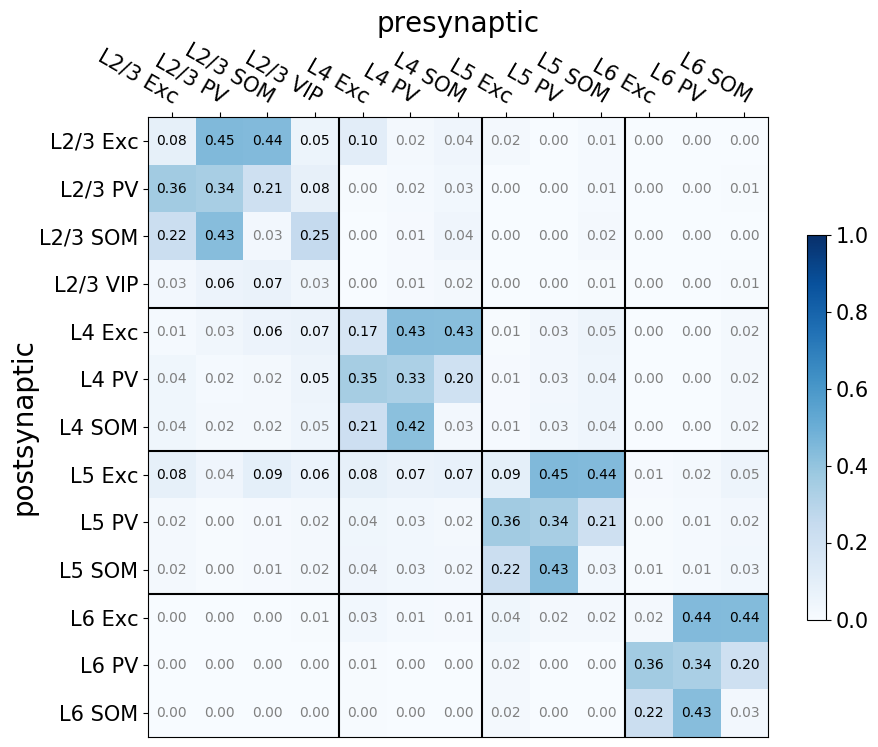
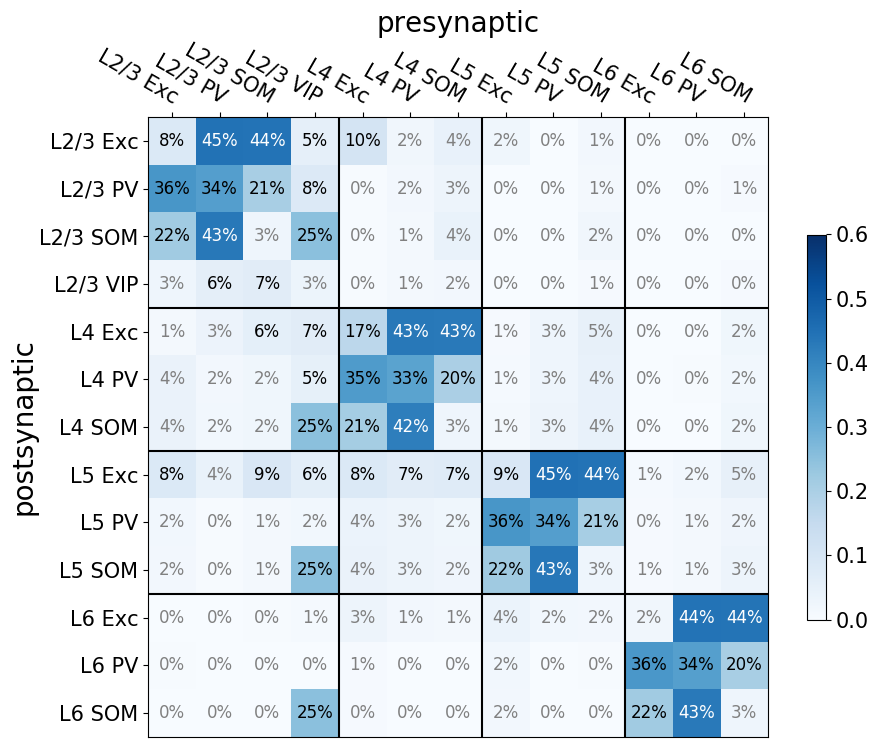
improve paradox functions, debug colormap

diff --git a/microcircuit/network.py b/microcircuit/network.py
@@ -231,24 +231,51 @@ class Network:
                     )
                 self.dc.append(dc)
 
-    def create_ac_generator(self):
-        if self.stim_dict['ac_input']['offset'] > 0.:
-            self.ac = []
-            for t in self.stim_dict['ac_input']['ts']:
-                ac = nest.Create(
-                    'ac_generator',
-                    params={
-                        'amplitude': self.stim_dict['ac_input']['amplitude'],
-                        'frequency': self.stim_dict['ac_input']['frequency'],
-                        'offset': self.stim_dict['ac_input']['offset'],
-                        'phase': self.stim_dict['ac_input']['phase'],
-                        'start': t,
-                        'stop': t + self.stim_dict['ac_input']['duration'],
-                    }
-                )
-                self.ac.append(ac)
-                for i in self.stim_dict['ac_input']['targets']:
-                    nest.Connect(ac, self.pops[i])
+    def create_paradox(self):
+        if self.stim_dict['paradox']['n'] > 0:
+            self.paradox_gens = []
+            duration = self.stim_dict['paradox']['duration']
+            paradox_type = self.stim_dict['paradox']['type']
+            generator_type = '{}_generator'.format(paradox_type)
+            for i, offset in enumerate(self.stim_dict['paradox']['offsets']):
+                print('paradox starts = {}'.format(self.stim_dict['paradox']['starts'][str(offset)]))
+                if offset <= 0:
+                    continue
+                for j, start in enumerate(self.stim_dict['paradox']['starts'][str(offset)]):
+                    params = {'amplitude': offset, 'start': start, 'stop': start + duration}
+                    if paradox_type == 'ac':
+                        params['amplitude'] = self.stim_dict['paradox']['amplitude']
+                        params['frequency'] = self.stim_dict['paradox']['frequency']
+                        params['phase'] = self.stim_dict['paradox']['phase']
+                    gen = nest.Create(generator_type, params=params)
+                    self.paradox_gens.append(gen)
+                    for k in self.stim_dict['paradox']['targets']:
+                        nest.Connect(gen, self.pops[k])
+
+
+    # def create_ac_paradox(self):
+    #     if self.stim_dict['ac_paradox']['n'] > 0:
+    #         self.ac_paradox = []
+    #         duration = self.stim_dict['ac_paradox']['duration']
+    #         for i, offset in enumerate(self.stim_dict['ac_paradox']['offsets']):
+    #             print('ac start = {}'.format(self.stim_dict['ac_paradox']['starts'][str(offset)]))
+    #             if offset <= 0:
+    #                 continue
+    #             for j, start in enumerate(self.stim_dict['ac_paradox']['starts'][str(offset)]):
+    #                 ac = nest.Create(
+    #                     'ac_generator',
+    #                     params={
+    #                         'amplitude': self.stim_dict['ac_paradox']['amplitude'],
+    #                         'frequency': self.stim_dict['ac_paradox']['frequency'],
+    #                         'offset': offset,
+    #                         'phase': self.stim_dict['ac_paradox']['phase'],
+    #                         'start': start,
+    #                         'stop': start + duration,
+    #                     }
+    #                 )
+    #                 self.ac_paradox.append(ac)
+    #                 for k in self.stim_dict['ac_paradox']['targets']:
+    #                     nest.Connect(ac, self.pops[k])
 
 
     def create_connections(self):
@@ -417,7 +444,8 @@ class Network:
         # self.create_thalamic_input()
         self.create_poisson()
         self.create_dc_generator()
-        self.create_ac_generator()
+        self.create_paradox()
+        # self.create_ac_paradox()
         self.create_connections()
         if self.net_dict['poisson_input']:
             self.connect_poisson()

diff --git a/run_network.py b/run_network.py
@@ -15,26 +15,36 @@ if __name__ == "__main__":
 
     #  settings
     do_ai = False
-    do_response = True
+    do_response = False
     do_selectivity = False
 
     # set ai segments
     n_seg_ai, start_ai, seg_ai = 1, 2000., 2000.
     len_ai = seg_ai*n_seg_ai
-    t_stim = start_ai + len_ai
+    t_sim = start_ai + len_ai
 
     # set thalamic input:
     # Bruno, Simons, 2002: 1.4 spikes/20-ms deflection
     # Landisman, Connors, 2007, Cerebral Cortex: VPM >300 spikes/s in burst
-    n_stim, th_rate, stim_intrv = 10, 120., 1000.
+    n_stim, th_rate, stim_intrv = 0, 120., 1000.
     duration, ana_win, orient = 10., 40., False
-    start_stim, len_stim = t_stim, stim_intrv*n_stim
+    start_stim, len_stim = t_sim, stim_intrv*n_stim
     stims = list(range(int(start_stim + stim_intrv/2), int(start_stim + len_stim), int(stim_intrv)))
-    t_stim += len_stim
+    t_sim += len_stim
+
+    # set input for paradox effect
+    paradox_type = 'dc'
+    n_paradox, paradox_start, = 10, t_sim
+    paradox_duration, paradox_intrv = 600., 1000.
+    paradox_pops = [1, 5, 8, 11]
+    paradox_offsets = [0., 20., 40., 60., 80., 100., 120., 140., 160., 180.]
+    # paradox_offsets = [0., 10., 20., 30., 40., 50., 60., 70., 80., 90.]
+    paradox_freq, paradox_ac_amp = 10., 0.1 # ac
+    # t_sim += n_paradox*len(paradox_offsets)*(paradox_duration+paradox_intrv)
 
     # set others
     plot_half_len = 100.0
-    plot_center = (start_ai if n_stim ==0 else stims[0])
+    plot_center = (paradox_start+n_paradox*(len(paradox_offsets)-1)*paradox_duration*2 if n_stim == 0 else stims[0])
 
     # initiate ScanParams
     scanparams = create.ScanParams()
@@ -72,8 +82,11 @@ if __name__ == "__main__":
 
     # set simulation condition
     create.set_thalamic(para_dict, stims, th_rate, orient=orient, duration=duration)
+    t_sim += create.set_paradox(para_dict, paradox_type, n_paradox, paradox_pops,
+        paradox_offsets, paradox_start, paradox_duration, paradox_intrv,
+        paradox_ac_amp, paradox_freq)
     para_dict['sim_dict']['local_num_threads'] = int(mp.cpu_count() * cpu_ratio)
-    para_dict['sim_dict']['t_sim'] = t_stim
+    para_dict['sim_dict']['t_sim'] = t_sim
     print('stims = {}'.format(para_dict['stim_dict']['th_start']))
 
     # initialize and run
@@ -97,7 +110,7 @@ if __name__ == "__main__":
         if n_stim > 0:
             t1 = time.time()
             if do_response:
-                analysis.response(spikes, start_stim, stims, window=ana_win, interpol=True)
+                analysis.response(spikes, start_stim, stims, window=ana_win, interpol=True, bw=5.)
             t2 = time.time()
             if do_selectivity:
                 analysis.selectivity(spikes, para_dict['stim_dict']['th_start'], duration=duration, raw=True)
@@ -105,13 +118,12 @@ if __name__ == "__main__":
             t3 = time.time()
             print('response() runing time = {}'.format(t2 - t1))
             print('selectivity() runing time = {}'.format(t3 - t2))
-            # move hist-ltc.png to root folder
-            # if on_server:
-            #     os.system('mv {} {}'.format(os.path.join(data_path, 'hist-ltc.png'), 'hist-ltc_{}.png'.format(data_path.split('/')[-2])))
+        analysis.paradox_fr(spikes, para_dict['stim_dict']['paradox'])
+        analysis.paradox_fr(spikes, para_dict['stim_dict']['paradox'], zoomin=False)
 
-        if not on_server:
-            analysis.plot_raster(spikes, plot_center - plot_half_len, plot_center + plot_half_len)
-            analysis.fr_plot(spikes)
+        # if not on_server:
+        analysis.plot_raster(spikes, plot_center - plot_half_len, plot_center + plot_half_len)
+        analysis.fr_plot(spikes)
 
         spikes.verify_print(data_path)
 

diff --git a/microcircuit/create_params.py b/microcircuit/create_params.py
@@ -29,16 +29,15 @@ class ScanParams:
         self.net_dict['epsp']['use'] = False
         self.net_dict['ipsp']['use'] = False
         self.net_dict['U-compensate'] = True
-        # self.sim_dict['master_seed'] = 60
-        # self.special_dict['stp_dict'] = {}
-        # self.set_indgs([1000, 1500, 750, 900])
-        self.special_dict['stp_dict'] = copy.deepcopy(self.stps['stp_fitted_02.pickle'])
-        self.set_indgs([750, 1500, 500, 1000])
-        # self.set_indgs([1000, 1500, 1000, 2000])
+        self.special_dict['stp_dict'] = {}
+        self.set_indgs([750, 1500, 0, 1250])
+        # self.special_dict['stp_dict'] = copy.deepcopy(self.stps['stp_fitted_02.pickle'])
+        # self.set_indgs([750, 1500, 0, 1250])
         # self.del_item(self.special_dict['stp_dict'], keysets=[['L6_Exc', 'L6_Exc']])
-        # self.net_dict['K_ext'][7] = 2000
-        # self.net_dict['K_ext'][9] = 0
-        # self.renew_conn('allen')
+        # self.net_dict['K_ext'] = np.array([750, 1500, 1000, 2000,
+        #                                    750, 1500, 1000,
+        #                                    500, 500, 1000,
+        #                                    500, 500, 1000])
         self.load_conn('7-15')
         self.vip_som(True)
 
@@ -135,6 +134,30 @@ class ScanParams:
 '''
 preliminary settings
 '''
+def set_paradox(para_dict, paradox_type, n, pops, offsets, start, duration, intrv, amp=0.1, freq=10.):
+    para_dict['stim_dict']['paradox']['type'] = paradox_type
+    para_dict['stim_dict']['paradox']['offsets'] = offsets
+    para_dict['stim_dict']['paradox']['n'] = n
+    para_dict['stim_dict']['paradox']['duration'] = duration
+    para_dict['stim_dict']['paradox']['targets'] = pops
+    # handle starts
+    starts_dict, n_offset, seg = {}, len(offsets), duration+intrv
+    for offset in offsets:
+        starts_dict[str(offset)] = []
+    for i in range(n):
+        tmps = np.array([start + i*n_offset*seg + j*seg for j in range(n_offset)])
+        np.random.shuffle(tmps)
+        for k, tmp in enumerate(tmps):
+            starts_dict[str(offsets[k])].append(tmp)
+    # for i, offset in enumerate(offsets):
+    #     starts_dict[str(offset)] = [start + i*n*(duration+intrv) + j*(duration+intrv) for j in range(n)]
+    para_dict['stim_dict']['paradox']['starts'] = starts_dict
+    para_dict['stim_dict']['paradox']['intrv'] = intrv
+    if paradox_type == 'ac':
+        para_dict['stim_dict']['paradox']['amplitude'] = amp
+        para_dict['stim_dict']['paradox']['frequency'] = freq
+    return n*len(offsets)*(duration+intrv)
+
 # set layer-specific thalamic input
 def set_thalamic(para_dict, th_starts=None, th_rate=None, orient=False, duration=10):
     th_dict = {}

diff --git a/microcircuit/conn_probs/plotconn.py b/microcircuit/conn_probs/plotconn.py
@@ -2,18 +2,12 @@ import os
 import numpy as np
 import matplotlib.pyplot as plt
 
-def plotconn(fn, raw=False, threshold=False, vipconn=True):
+def plotconn(fn, raw=False, threshold=False, vipconn=True, vmax=0.6):
     # set labels
-    # lyr_lbls = ['L2/3', 'L4', 'L5', 'L6']
-    # lyr_pos = [1.5/13, 4.5/13, 7.5/13, 11/13]
     pop_lbls = ['L2/3 Exc', 'L2/3 PV', 'L2/3 SOM', 'L2/3 VIP',
                 'L4 Exc', 'L4 PV', 'L4 SOM',
                 'L5 Exc', 'L5 PV', 'L5 SOM',
                 'L6 Exc', 'L6 PV', 'L6 SOM']
-    # pop_lbls = ['Exc', 'PV', 'SOM', 'VIP',
-    #             'Exc', 'PV', 'SOM',
-    #             'Exc', 'PV', 'SOM',
-    #             'Exc', 'PV', 'SOM']
 
     # get data
     data = np.loadtxt(fn, delimiter=',')
@@ -35,17 +29,19 @@ def plotconn(fn, raw=False, threshold=False, vipconn=True):
     cmap='Blues',
     extent=[0, 13, 0, 13],
     vmin=0.0,
-    vmax=1.0
+    vmax=vmax
     )
 
     # values
     mtx = conn_estimate_mtx()
     for i in range(13):
         for j in range(13):
-            prob, fsize, fcolor = data[i, j], 10, 'k'
-            text = '{:.2f}'.format(prob)
+            prob, fsize, fcolor = data[i, j], 12, 'k'
+            text = '{:.0%}'.format(prob)
             if threshold is True and prob < 0.05:
                 fcolor = 'gray'
+            if prob > 2*vmax/3:
+                fcolor = 'w'
             if '7-15' in fn and mtx[i][j] == 1:
                 text += '*'
             plt.text(j+0.5, 12-i+0.5, text,
@@ -89,13 +85,13 @@ def conn_estimate_mtx():
            [0,0,0,0,0,0,0,0,0,0,0,0,0],
            [0,0,0,0,0,0,0,0,0,0,0,0,0],
            [0,0,0,0,1,0,0,0,0,0,0,0,0],
-           [0,0,0,0,0,0,0,0,0,0,0,0,0],
+           [0,0,0,1,0,0,0,0,0,0,0,0,0],
            [0,0,0,0,0,0,0,0,1,1,0,0,0],
            [0,0,0,0,0,0,0,1,1,1,0,0,0],
-           [0,0,0,0,0,0,0,1,1,1,0,0,0],
+           [0,0,0,1,0,0,0,1,1,1,0,0,0],
            [0,0,0,0,0,0,0,0,0,0,0,1,1],
            [0,0,0,0,0,0,0,0,0,0,1,1,1],
-           [0,0,0,0,0,0,0,0,0,0,1,1,1],
+           [0,0,0,1,0,0,0,0,0,0,1,1,1],
            ]
     return mtx
 
@@ -103,4 +99,4 @@ if __name__ == '__main__':
     fns = os.listdir()
     for fn in fns:
         if fn.startswith('conn') and fn.endswith('.csv'):
-            plotconn(fn, threshold=True, vipconn=False)
+            plotconn(fn, threshold=True, vipconn=True)

diff --git a/microcircuit/analysis.py b/microcircuit/analysis.py
@@ -822,3 +822,43 @@ def response(spikes, begin, stims, window, bw=1.0, exportplot=False, interpol=Fa
     if empty_flg:
         xy_by_layer = []
     np.save(os.path.join(spikes.path, 'lts_distr.npy'), xy_by_layer)
+
+def paradox_fr(spikes, params_dict, zoomin=True):
+    if not params_dict['n'] > 0:
+        return
+    f = open(os.path.join(spikes.path, 'paradox.dat'), 'w')
+    ac_n, duration = params_dict['n'], params_dict['duration']
+    fig, axs = plt.subplots(4, 1, figsize=(6, 15), sharex=True, sharey=True)
+    plt.xlabel('{} input (pA)'.format(params_dict['type']))
+    plt.ylabel('normalized firing rate')
+    for i, gids in enumerate(spikes.gids):
+        frs = []
+        n_pop = gids[1] - gids[0] + 1
+        # data_gs = spikes.get_data(begin_gs, end_gs)[i]
+        # if type(data_gs) == np.ndarray and data_gs.ndim == 2:
+        #     fr_gs = 1000*(len(data_gs)/n_pop)/(end_gs - begin_gs)
+        for j, (offset, starts) in enumerate(params_dict['starts'].items()):
+            spk_sum, fr = 0, np.nan
+            for k, start in enumerate(starts):
+                data = spikes.get_data(start+duration/2, start+duration)[i]
+                if type(data) != np.ndarray or data.ndim != 2:
+                    spk_sum = np.nan
+                    break
+                spk_sum += len(data)
+            fr = 1000*(spk_sum/n_pop)/(ac_n*(duration/2))
+            frs.append(fr)
+            f.write('{:.3f}, '.format(fr))
+        f.write('\n')
+        norm_frs = np.array(frs)/frs[0] if frs[0] != 0 else np.full(len(params_dict['offsets']), np.nan)
+        axs[spikes.layers[i]].plot(params_dict['offsets'], norm_frs, color=spikes.colors[i], linewidth=2, marker='.', markersize=10)
+        axs[spikes.layers[i]].hlines(1., params_dict['offsets'][0], params_dict['offsets'][-1], linestyles=':', color='k')
+    f.close()
+    # legend
+    for i in range(4):
+        axs[0].plot([], [], label=spikes.subtypes[i], color=spikes.colors[i])
+    axs[0].legend(loc='upper center', ncol=4, bbox_to_anchor=(0.5, 1.5))
+    # zoom in
+    if zoomin:
+        plt.ylim((0.5, 1.2))
+    plt.savefig(os.path.join(spikes.path, 'paradox-zoomin={}.png'.format(zoomin)), bbox_inches='tight')
+    plt.close()

diff --git a/scans/scan_data.py b/scans/scan_data.py
@@ -238,11 +238,13 @@ class ScanData:
 
                 # single- & triple-fit patches
                 if plotvar in self.criteria:
+                    # single fit
+                    fits = self.fits[str(zb)][str(za)][plotvar][r].T
+                    # triple-fit
                     tri_fits = np.ones(data.shape)
                     for k in self.criteria.keys():
-                        fits = self.fits[str(zb)][str(za)][k][r].T # (y, x)
-                        tri_fits = np.multiply(tri_fits, fits) # (y, x)
-                        # save triple-fit by layer, for RMSE later
+                        tri_fits = np.multiply(tri_fits, self.fits[str(zb)][str(za)][k][r].T) # (y, x)
+                        # save all-fit (across layers), for RMSE later
                         if c == 0:
                             for row in range(4):
                                 all_fit = np.multiply(all_fit, self.fits[str(zb)][str(za)][k][row].T)

diff --git a/microcircuit/stimulus_params.py b/microcircuit/stimulus_params.py
@@ -38,13 +38,17 @@ stim_dict = {
     'dc_amp': np.ones(len(net_dict['populations'])) * 0.3,
     # stimulus orientation 190614
     'orientation': 0.0,  # from -pi/2 to pi/2
-    'ac_input': {
-        'offset': 0.,
-        'amplitude': 0.1,
-        'frequency': 100.,
-        'phase': 0.,
-        'ts': np.arange(2000, 4000, 2000).astype(float),
-        'duration': 1000,
-        'targets': [1, 2, 3]
-        }
+    # input for paradox effect
+    'paradox': {
+        'type': 'dc',
+        'offsets': [0.],
+        'amplitude': 0.1,   # ac
+        'frequency': 100.,  # ac
+        'phase': 0.,        # ac
+        'n': 0,             # n of each offset level
+        'duration': 1000.,
+        'targets': [1],
+        'starts': {'0.0': [2000.]},
+        'intrv': 1000.
+        },
     }
